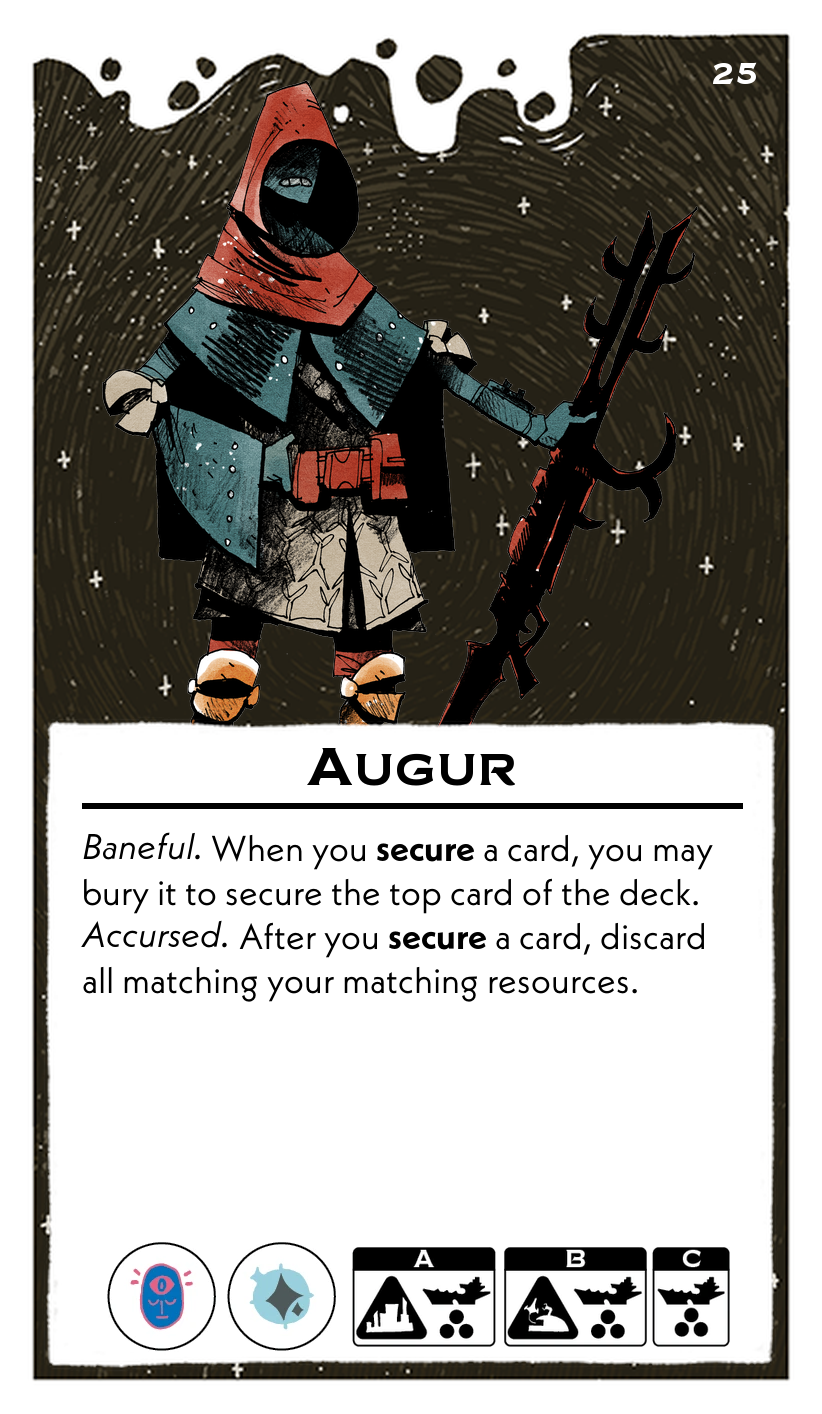
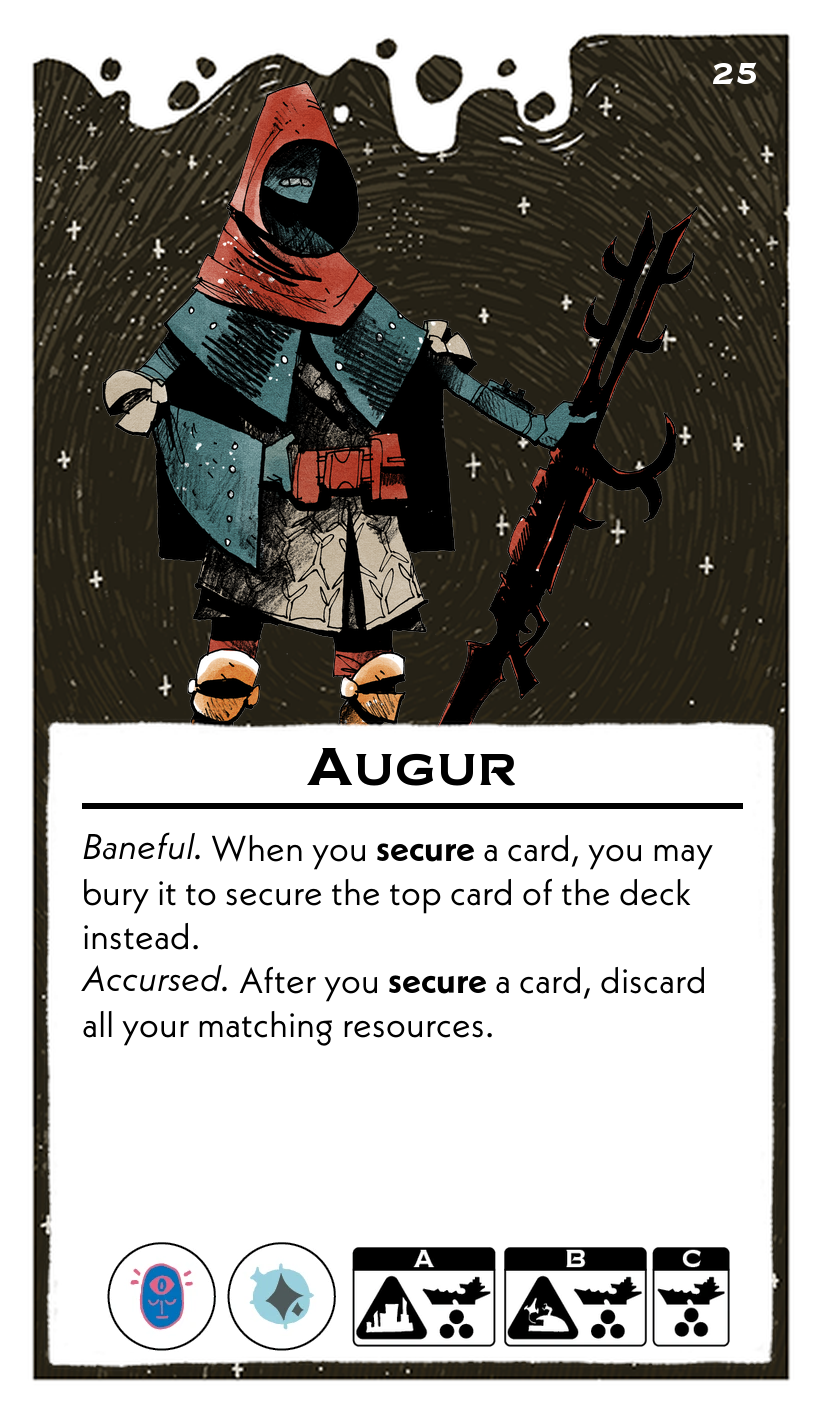
aaa

Changed region(s): [[0.0912, 0.6535, 0.8516, 0.7468]]

diff --git a/scripts/leadersFormatted.py b/scripts/leadersFormatted.py
@@ -385,8 +385,8 @@ leaders = [
     {
         "name": "Augur",
         "abilities": (
-            "*Baneful.* When you **secure** a card, you may bury it to secure the top card of the deck.\n"
-            "*Accursed.* After you **secure** a card, discard all matching your matching resources."
+            "*Baneful.* When you **secure** a card, you may bury it to secure the top card of the deck instead.\n"
+            "*Accursed.* After you **secure** a card, discard all your matching resources."
         ),
         "resources": ["Psionic", "Relic"],
         "setup": {
